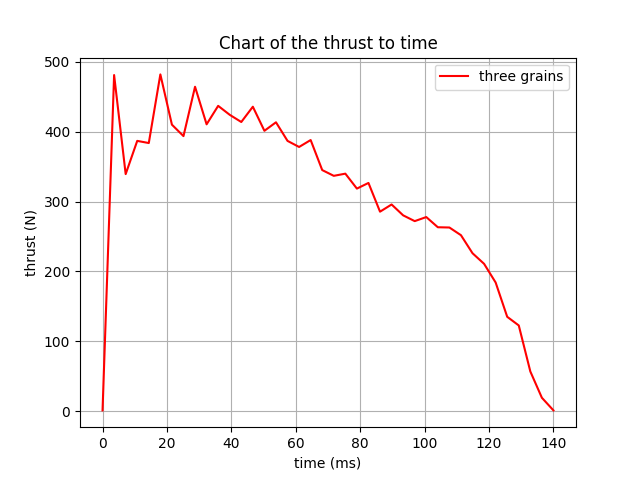
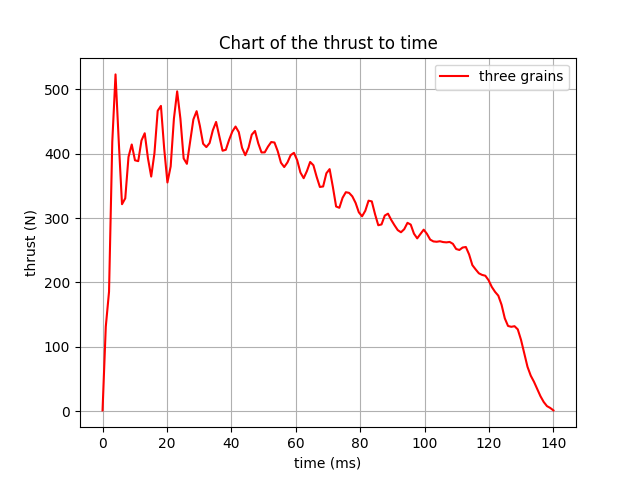
test

diff --git a/test_interpolate_CSV.py b/test_interpolate_CSV.py
@@ -25,7 +25,7 @@ print(time)
 
 
 f2 = interp1d(time, thrust)
-xnew = np.linspace(0, 140, num=40, endpoint=True)
+xnew = np.linspace(0, 140, num=140, endpoint=True)
 
 
 fig, ax = plt.subplots()
